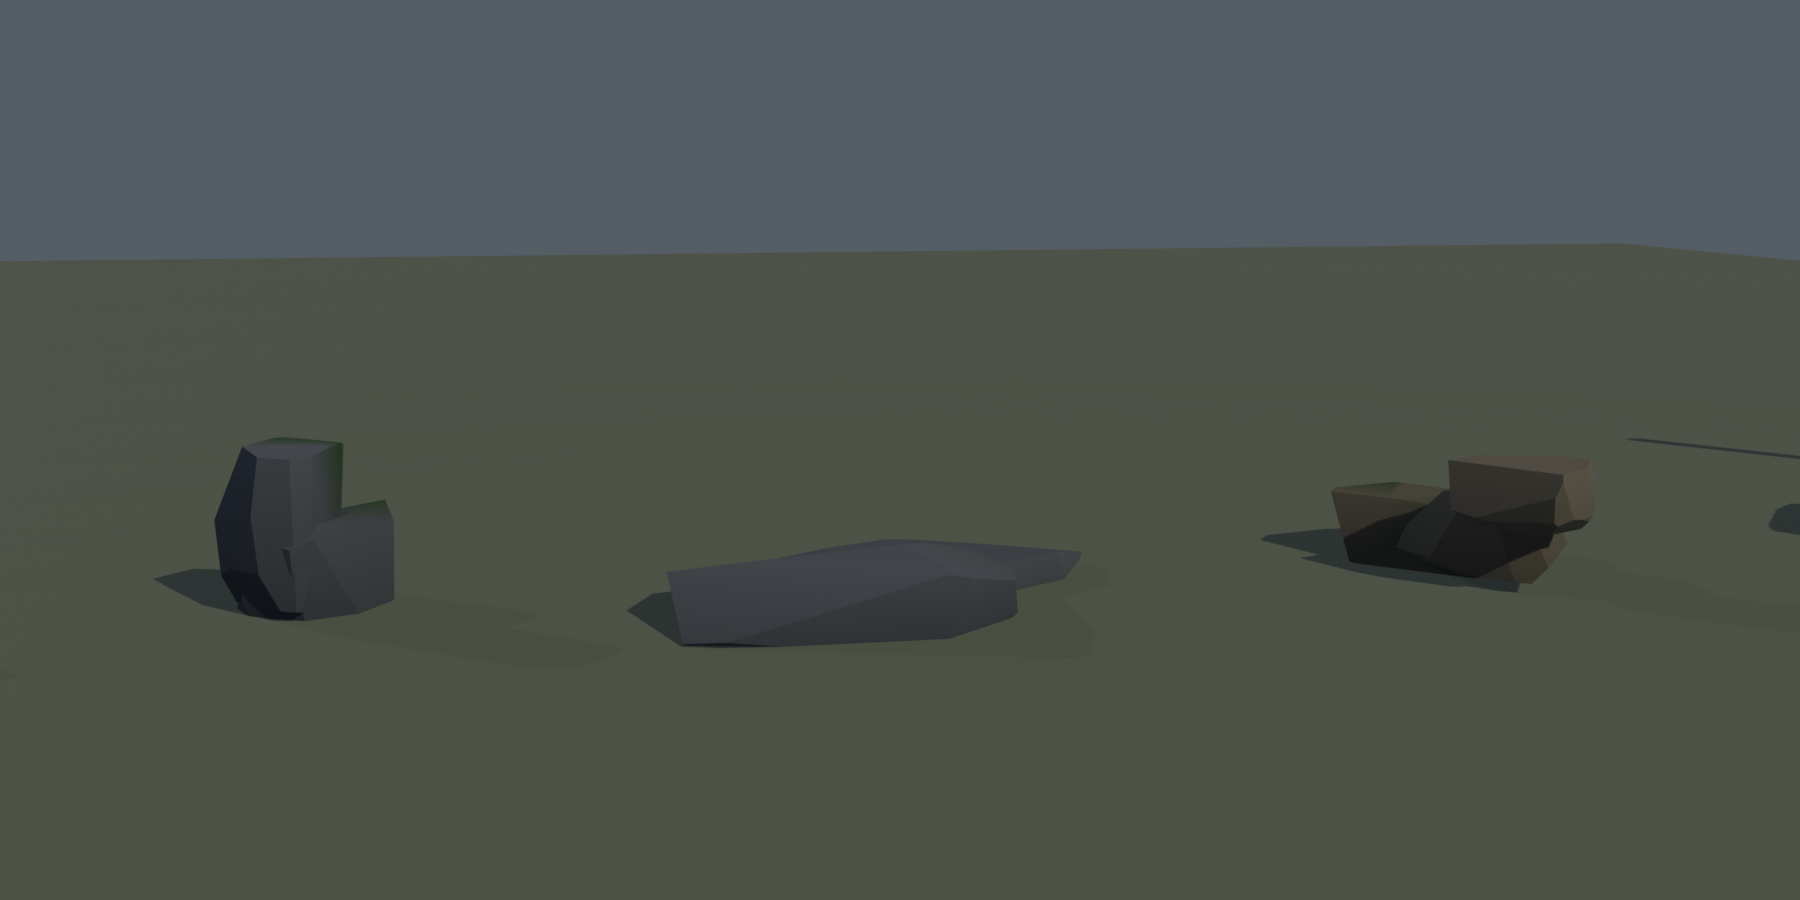
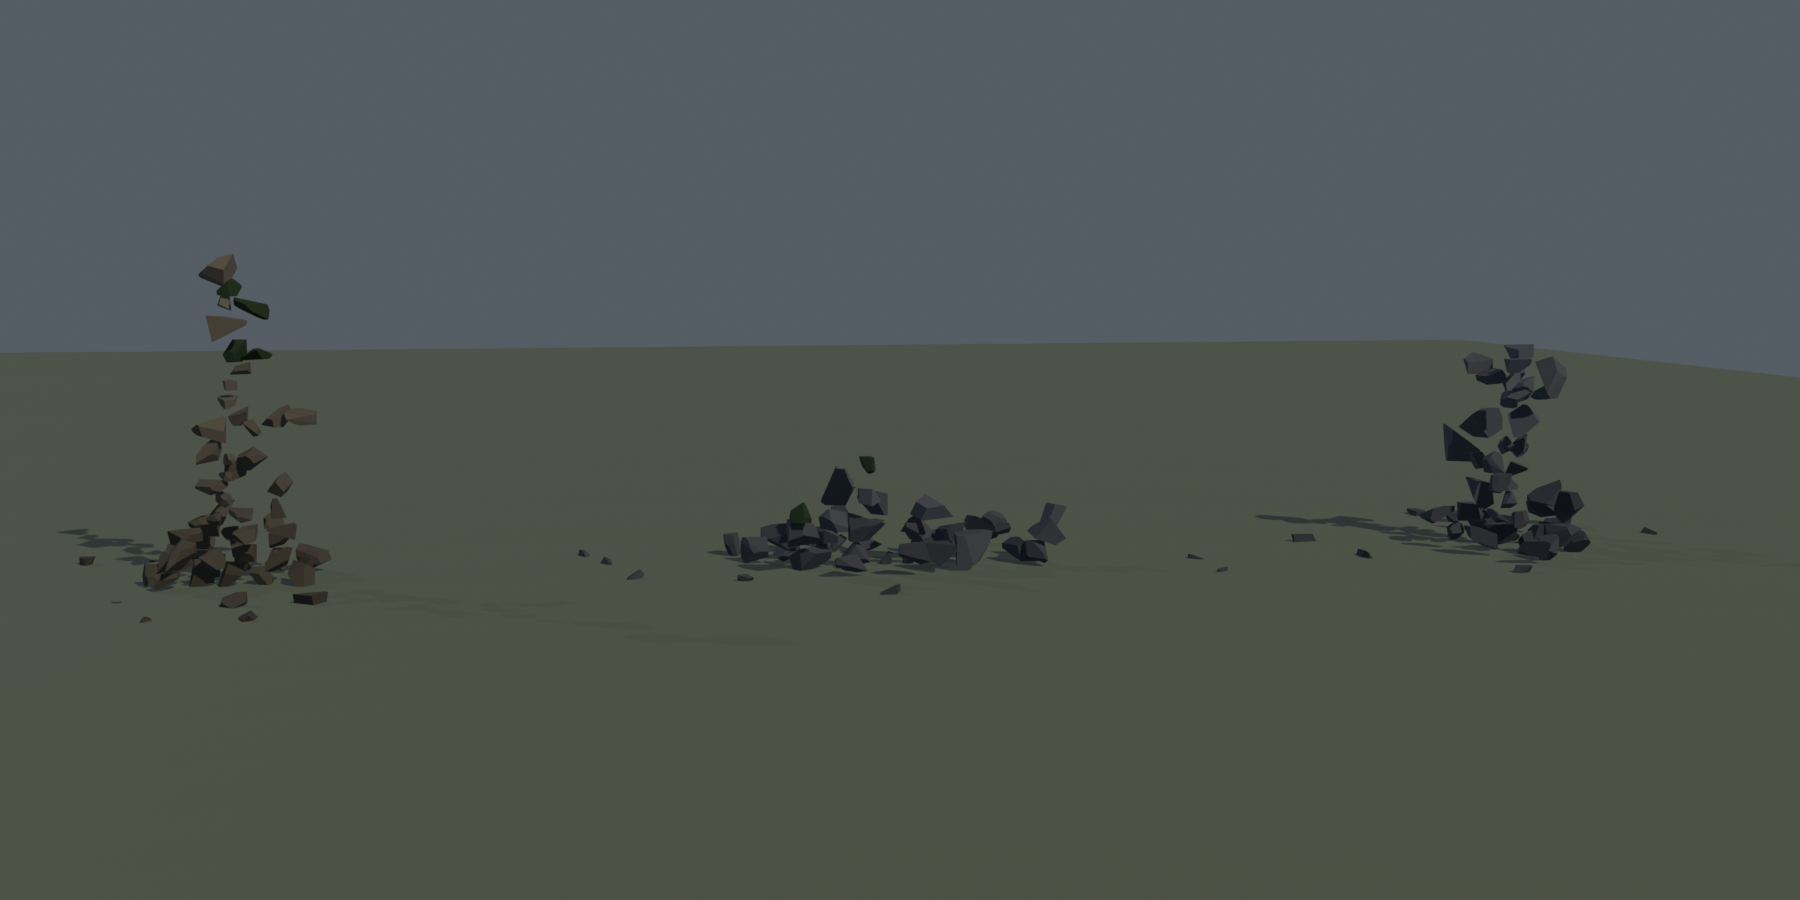
feat(biome_facet): stone aggregates - a formation is many small stones, not one mass
Counted on the reference sheet Joan supplied (rock_poe_mossy_stacked_set.png):
every formation there is 15-40 individual stones packed into a silhouette, never
one faceted mass. That single observation answers three problems at once, and
answers them better than either branch of the texture-vs-polygon fork I had put
to him:

  surface  the detail frequency lives in the boundaries BETWEEN stones, which is
           why adding erosion to a 4-block mass failed twice - wrong scale
  moss     a stone is mossy or it is not, so whole-stone painting gives the hard
           boundary vertex colour cannot produce inside one large face
  physics  packed small stones rest on each other; nothing balances

add_stone_aggregate() fills a dome/peak/ridge/split envelope, then SETTLES each
stone onto the ground or onto stones already placed, using the same quantified
adjacency as the rest of the recipe. Cost is unchanged in kind: 678-1688 tris.

Two bugs found and fixed along the way, both mine:
  - sampling z from the envelope left stones hanging in mid air
  - rescaling only Z to honour the height spec then pulled settled stones off
    their supporters, bringing the floaters straight back; the rescale is now
    uniform, which preserves contact by construction

KNOWN AND UNFIXED, do not read the renders as done: the settle models each stone
as a sphere of its nominal radius, but stones are built with a random flatten of
[…]

Changed region(s): [[0.0, 0.2489, 1.0, 0.7156], [0.3422, 0.4978, 0.5911, 0.7467], [0.9644, 0.56, 1.0, 0.5911]]

diff --git a/recetas/biome_facet.py b/recetas/biome_facet.py
@@ -42,7 +42,33 @@ ADJACENCY = 0.60
 MIN_CUT_FRAC = 0.55
 
 
-def _convex_chunk(rng, radius, cuts, bedding, bedding_jitter, elongate, flatten):
+def _erode(tmp, radius, amount, scale, subdiv, seed):
+    """Pit and pock the cut solid without dissolving its architecture.
+
+    This is the half of the recipe that was written in the header and then not
+    built: "cut for the architecture, then let noise ride on top at low
+    amplitude". Joan's in-game Path of Exile reference is eroded limestone --
+    irregular, pocked, full of small cavities -- not the crisp concept-art
+    facets. The plane cuts give the angular masses; this gives them a surface.
+
+    The noise is biased NEGATIVE so it carves pockets inward rather than
+    inflating bumps outward: erosion removes material. Deterministic from `seed`,
+    consumes no rng draws, so turning it on cannot reshuffle block placement.
+    """
+    if subdiv > 0:
+        bmesh.ops.subdivide_edges(tmp, edges=tmp.edges[:], cuts=subdiv,
+                                  use_grid_fill=True)
+    tmp.normal_update()
+    for v in tmp.verts:
+        p = v.co * scale
+        n = (math.sin(p.x * 1.7 + p.y * 2.3 + seed)
+             * math.sin(p.y * 1.9 + p.z * 2.7 + seed * 0.7)
+             * math.sin(p.z * 2.1 + p.x * 1.3 + seed * 1.3))
+        v.co += v.normal * ((n - 0.35) * amount * radius)
+
+
+def _convex_chunk(rng, radius, cuts, bedding, bedding_jitter, elongate, flatten,
+                  erode=0.0, erode_scale=9.0, erode_subdiv=0, erode_seed=0.0):
     """One convex polyhedron carved out of a cube by successive plane cuts.
 
     Returns (coords, faces) as plain data so the caller can place and paint it
@@ -101,6 +127,12 @@ def _convex_chunk(rng, radius, cuts, bedding, bedding_jitter, elongate, flatten)
         k = radius / reach
         for v in tmp.verts:
             v.co *= k
+
+    # Erosion runs AFTER normalisation (so its amplitude is a true fraction of
+    # the block radius) and BEFORE the shape scaling (so a flattened slab gets
+    # its pitting flattened with it, like real bedded stone).
+    if erode > 0.0:
+        _erode(tmp, radius, erode, erode_scale, erode_subdiv, erode_seed)
 
     for v in tmp.verts:
         v.co.x *= elongate
@@ -165,11 +197,20 @@ def add_faceted_rock(bm, vcol, center, spec, rng):
             # measured 2.29 m wide by 1.03 m tall when it was meant to be a cairn.
             stack = spec.get("stack", 0.0)
             horiz = 1.0 - 0.75 * stack
-            pos = anchor_c + Vector((
-                math.cos(ang) * d * horiz,
-                math.sin(ang) * d * horiz,
-                d * stack * rng.uniform(0.60, 1.0) + rng.uniform(-0.10, 0.30) * r,
-            ))
+            off = Vector((math.cos(ang), math.sin(ang), 0.0)) * d * horiz
+            rise = d * stack * rng.uniform(0.60, 1.0) + rng.uniform(-0.10, 0.30) * r
+            if rise > 0.0:
+                # SUPPORT POLYGON. A block resting on another has to keep its
+                # centre of mass over the one below, or the pile is a thing that
+                # cannot stand. Joan, looking at the first render beside a Path of
+                # Exile screenshot: "hay uno de los modelados que dejaste que esta
+                # apilado y eso con fisicas se caeria, no estaria bien".
+                # Capped at HALF the supporting block's radius: enough lean to
+                # look quarried, never enough to topple.
+                limit = anchor_r * 0.5
+                if off.length > limit:
+                    off *= limit / off.length
+            pos = anchor_c + Vector((off.x, off.y, rise))
         placed.append((pos, r))
 
         coords, faces = _convex_chunk(
@@ -179,6 +220,10 @@ def add_faceted_rock(bm, vcol, center, spec, rng):
             bedding_jitter=spec.get("bedding_jitter", 0.10),
             elongate=spec.get("elongate", 1.0),
             flatten=spec.get("flatten", 1.0),
+            erode=spec.get("erode", 0.0),
+            erode_scale=spec.get("erode_scale", 9.0),
+            erode_subdiv=spec.get("erode_subdiv", 1),
+            erode_seed=float(i) * 3.7,
         )
 
         verts = [bm.verts.new(pos + c) for c in coords]
@@ -203,11 +248,27 @@ def add_faceted_rock(bm, vcol, center, spec, rng):
     z_hi = max(v.co.z for v in all_verts)
     z_span = max(z_hi - z_lo, 1e-6)
 
+    pit_depth = spec.get("pit_depth", 0.0)
+    pit_scale = spec.get("pit_scale", 14.0)
+
     for v in all_verts:
         # Crevice/base darkening. The references have deep darks low in the mass
         # and clear light on top; a flat tint is what made ours read as plaster.
         t = (v.co.z - z_lo) / z_span
         k = 1.0 - crevice_dark * (1.0 - t)
+        if pit_depth > 0.0:
+            # PITTING LIVES IN VALUE, NOT IN SILHOUETTE. The first attempt carved
+            # the pocks as geometry, displacing along vertex normals after a
+            # subdivision fan; at any amplitude big enough to see, it tore the
+            # block into thin blades instead of pitting it. Canon _art_canon.md
+            # §17 already says it: silhouette = geometry, surface = texture. At
+            # gameplay distance the eroded limestone in the reference reads as
+            # dark speckle, and dark speckle is what this is.
+            p = v.co * pit_scale
+            n = (math.sin(p.x * 1.7 + p.y * 2.3)
+                 * math.sin(p.y * 1.9 + p.z * 2.7)
+                 * math.sin(p.z * 2.1 + p.x * 1.3))
+            k *= 1.0 - pit_depth * max(0.0, n)
         vcol[v] = tuple(c * k for c in color_rock)
 
     if color_moss is not None:
@@ -230,6 +291,155 @@ def add_faceted_rock(bm, vcol, center, spec, rng):
             if rng.random() > moss_chance:
                 continue
             vcol[v] = color_moss
+
+    return made_faces
+
+
+def _envelope_radius(t, profile):
+    """Half-width of the formation at height fraction t (0 base, 1 crown)."""
+    if profile == "peak":
+        return max(1.0 - t, 0.04) ** 0.85
+    if profile == "ridge":
+        return max(1.0 - t * 0.55, 0.04)
+    if profile == "split":
+        # Two shoulders with a notch: the silhouette dips in the middle band.
+        return max((1.0 - t) * (1.0 + 0.35 * math.cos(t * math.pi * 2.0)), 0.04)
+    return max(1.0 - t * t, 0.04) ** 0.5      # dome
+
+
+def add_stone_aggregate(bm, vcol, center, spec, rng):
+    """A rock FORMATION as many small stones packed into a silhouette.
+
+    This is what the reference sheets actually are. Counted on
+    `_references/rock_poe/rock_poe_mossy_stacked_set.png`: every formation is an
+    aggregate of roughly 15-40 individual stones, not one faceted mass. That one
+    fact answers three separate problems at once:
+
+      * SURFACE — the "texture" of the formation IS the boundaries between
+        stones. A single mass with big facets reads bare no matter how it is
+        shaded, because the detail frequency lives in the packing, not in the
+        material. This is why adding erosion noise to a 4-block mass failed
+        twice: it was solving at the wrong scale.
+      * MOSS EDGE — a stone is mossy or it is not. Painting WHOLE stones gives
+        the hard boundary the references show, for free. Trying to get that edge
+        inside one big face is what vertex colour cannot do.
+      * PHYSICS — packed small stones rest on each other. Nothing balances.
+
+    Cost is unchanged: ~30 stones at ~20 tris each is the same budget a handful
+    of heavily-cut blocks already spent.
+
+    spec keys:
+      radius / height   formation half-width and height in metres
+      profile           dome | peak | ridge | split
+      stones            how many stones fill the envelope
+      elongate          X stretch of the whole formation
+      outliers          loose stones dropped around the foot
+      stone_frac        stone radius as a fraction of formation radius
+      color_rock / color_moss / moss_top_frac / moss_chance / tint_drift
+      crevice_dark      darkening toward the base of the formation
+    """
+    R = spec["radius"]
+    H = spec.get("height", R * 1.1)
+    profile = spec.get("profile", "dome")
+    n = spec.get("stones", 26)
+    elongate = spec.get("elongate", 1.0)
+    outliers = spec.get("outliers", 5)
+    stone_frac = spec.get("stone_frac", 0.30)
+    color_rock = spec.get("color_rock", (0.13, 0.12, 0.09))
+    color_moss = spec.get("color_moss")
+    moss_top_frac = spec.get("moss_top_frac", 0.55)
+    moss_chance = spec.get("moss_chance", 0.7)
+    tint_drift = spec.get("tint_drift", 0.16)
+    crevice_dark = spec.get("crevice_dark", 0.55)
+    cuts = spec.get("cuts", 7)
+
+    origin = Vector(center)
+    made_faces = []
+
+    def place_stone(pos, stone_r, height_t, allow_moss):
+        coords, faces = _convex_chunk(
+            rng, stone_r, cuts=cuts, bedding=spec.get("bedding", 0),
+            bedding_jitter=spec.get("bedding_jitter", 0.10),
+            elongate=rng.uniform(0.85, 1.25), flatten=rng.uniform(0.72, 1.10),
+        )
+        verts = [bm.verts.new(pos + c) for c in coords]
+        for idx in faces:
+            try:
+                f = bm.faces.new([verts[k] for k in idx])
+            except ValueError:
+                continue
+            f.normal_update()
+            made_faces.append(f)
+        # ONE colour per stone. Per-stone tint drift is what gives the reference
+        # sheets their liveliness -- neighbouring stones differ in value, and
+        # that reads as surface without a single texel.
+        mossy = (allow_moss and color_moss is not None
+                 and height_t >= moss_top_frac and rng.random() < moss_chance)
+        base = color_moss if mossy else color_rock
+        drift = 1.0 + rng.uniform(-tint_drift, tint_drift)
+        depth = 1.0 - crevice_dark * (1.0 - height_t)
+        col = tuple(max(0.0, min(1.0, c * drift * depth)) for c in base)
+        for v in verts:
+            vcol[v] = col
+
+    # ---- settle pass: decide every stone's resting height BEFORE building ----
+    # The envelope only chooses WHERE in plan a stone goes. Its height is not
+    # sampled, it is DERIVED: each stone drops until it rests on the ground or on
+    # stones already placed. The first version sampled z from the envelope too and
+    # produced stones hanging in mid air with nothing beneath them -- a hard fail
+    # on the Naturalness Audit's floating-geometry item, and the same class of
+    # error Joan caught on the block stack ("eso con fisicas se caeria").
+    #
+    # Resting height uses the same quantified adjacency as everything else: two
+    # stones read as one mass when their centres sit at ADJACENCY x the sum of
+    # their radii. Given the horizontal gap, that fixes the vertical drop exactly,
+    # so stones interlock instead of leaving the gaps the loose version had.
+    seats = []          # (Vector centre, radius, height_fraction)
+    for _i in range(n):
+        t = rng.random() ** 1.45
+        env = _envelope_radius(t, profile)
+        ang = rng.uniform(0.0, math.tau)
+        rad = R * env * math.sqrt(rng.random())
+        stone_r = R * stone_frac * (1.0 - 0.40 * t) * rng.uniform(0.78, 1.25)
+        x = math.cos(ang) * rad * elongate
+        y = math.sin(ang) * rad
+        z = stone_r * 0.55          # resting on the ground, part-buried
+        for pc, pr, _pt in seats:
+            reach = ADJACENCY * (stone_r + pr)
+            d = math.hypot(x - pc.x, y - pc.y)
+            if d < reach:
+                z = max(z, pc.z + math.sqrt(reach * reach - d * d))
+        seats.append((Vector((x, y, z)), stone_r, t))
+
+    # Height is an OUTCOME of the packing, so the formation is rescaled to honour
+    # the spec — but UNIFORMLY, positions and stone radii together.
+    #
+    # Scaling Z alone was a bug with teeth: the settle above guarantees every
+    # stone touches its supporter, and stretching only the vertical axis pulls
+    # each stone off the one holding it up. Floating stones came back on the very
+    # pass that was meant to have fixed them. A uniform scale preserves every
+    # distance ratio, so contact survives by construction.
+    top = max((c.z + r for c, r, _t in seats), default=1.0)
+    k = min(1.6, max(0.6, H / max(top, 1e-6)))
+
+    for c, stone_r, _t in seats:
+        pos = origin + c * k
+        # Moss follows where the stone ENDED UP, not where it was drawn.
+        place_stone(pos, stone_r * k, min(1.0, (c.z * k) / max(H, 1e-6)),
+                    allow_moss=True)
+
+    for _i in range(outliers):
+        # Loose stones at the foot. In the references these are what stop the
+        # formation from having a hard contact line with the ground.
+        ang = rng.uniform(0.0, math.tau)
+        rad = R * rng.uniform(1.0, 1.55)
+        pos = origin + Vector((
+            math.cos(ang) * rad * elongate,
+            math.sin(ang) * rad,
+            R * stone_frac * rng.uniform(-0.25, 0.10),
+        ))
+        place_stone(pos, R * stone_frac * rng.uniform(0.35, 0.70), 0.0,
+                    allow_moss=False)
 
     return made_faces
 

diff --git a/recetas/_test_biome_facet.py b/recetas/_test_biome_facet.py
@@ -38,39 +38,48 @@ scene = bpy.context.scene
 STONE_WARM = (0.130, 0.115, 0.088)   # displays ~ (0.40, 0.38, 0.33)
 STONE_COOL = (0.085, 0.095, 0.118)   # displays ~ (0.33, 0.35, 0.38)
 STONE_DARK = (0.048, 0.050, 0.044)   # displays ~ (0.25, 0.26, 0.24)
-MOSS = (0.022, 0.055, 0.014)         # displays ~ (0.17, 0.26, 0.13)
+MOSS = (0.020, 0.041, 0.017)         # displays ~ (0.17, 0.26, 0.13)
 
+# Proportions rebuilt against Joan's IN-GAME Path of Exile screenshot rather than
+# the concept-art sheets. The game rock is LOW and WIDE and emerges from the
+# ground; the concept art is what led to tall compact masses sitting on top of it.
+# Rebuilt as AGGREGATES after counting the reference sheet: every formation in
+# rock_poe_mossy_stacked_set.png is 15-40 small stones packed into a silhouette,
+# never one faceted mass. Sizes are metres against a 1.80 m player.
 VARIANTS = [
-    dict(key="stacked_mossy", label="Stacked / mossy",
-         radius=0.45, blocks=5, cuts=22, bedding=2, stack=0.80, taper=0.45,
-         color_rock=STONE_WARM, color_moss=MOSS, moss_min_z=0.72, moss_chance=0.7,
-         crevice_dark=0.78),
-    dict(key="column", label="Column",
-         radius=0.34, blocks=2, cuts=20, bedding=4, flatten=2.2, stack=0.90,
-         color_rock=STONE_COOL, color_moss=MOSS, moss_min_z=0.80, moss_chance=0.30,
-         crevice_dark=0.72),
-    dict(key="wedge_slab", label="Wedge slab",
-         radius=0.70, blocks=2, cuts=18, bedding=1, flatten=0.40, elongate=1.6,
-         stack=0.10,
-         color_rock=STONE_COOL, color_moss=None, crevice_dark=0.62),
-    dict(key="strata_outcrop", label="Strata outcrop",
-         radius=0.55, blocks=3, cuts=16, bedding=6, bedding_jitter=0.05, flatten=0.90,
-         stack=0.45, taper=0.30,
-         color_rock=STONE_WARM, color_moss=MOSS, moss_min_z=0.76, moss_chance=0.55,
-         crevice_dark=0.80),
-    dict(key="boulder", label="Boulder",
-         radius=0.60, blocks=1, cuts=26,
-         color_rock=STONE_DARK, color_moss=MOSS, moss_min_z=0.78, moss_chance=0.45,
-         crevice_dark=0.70),
+    dict(key="mound_mossy", label="Mossy mound",
+         radius=0.72, height=0.95, profile="dome", stones=48, outliers=7,
+         stone_frac=0.25, cuts=7,
+         color_rock=STONE_WARM, color_moss=MOSS, moss_top_frac=0.50, moss_chance=0.75,
+         crevice_dark=0.55),
+    dict(key="peak", label="Peak",
+         radius=0.68, height=1.65, profile="peak", stones=56, outliers=8,
+         stone_frac=0.24, cuts=7,
+         color_rock=STONE_WARM, color_moss=MOSS, moss_top_frac=0.62, moss_chance=0.55,
+         crevice_dark=0.60),
+    dict(key="ridge_low", label="Low ridge",
+         radius=0.58, height=0.58, profile="ridge", stones=42, outliers=8,
+         stone_frac=0.26, elongate=2.2, cuts=7,
+         color_rock=STONE_COOL, color_moss=MOSS, moss_top_frac=0.55, moss_chance=0.45,
+         crevice_dark=0.50),
+    dict(key="split", label="Split shoulders",
+         radius=0.72, height=1.20, profile="split", stones=46, outliers=6,
+         stone_frac=0.24, cuts=7,
+         color_rock=STONE_COOL, color_moss=None, crevice_dark=0.55),
+    dict(key="cluster_small", label="Small cluster",
+         radius=0.40, height=0.42, profile="dome", stones=22, outliers=5,
+         stone_frac=0.26, cuts=6,
+         color_rock=STONE_DARK, color_moss=MOSS, moss_top_frac=0.55, moss_chance=0.5,
+         crevice_dark=0.45),
 ]
 
-SPACING = 2.2
+SPACING = 3.4
 objs = []
 for i, spec in enumerate(VARIANTS):
     rng = random.Random(SEED + i * 17)
     bm = bmesh.new()
     vcol = {}
-    faces = biome_facet.add_faceted_rock(bm, vcol, Vector((0.0, 0.0, 0.0)), spec, rng)
+    faces = biome_facet.add_stone_aggregate(bm, vcol, Vector((0.0, 0.0, 0.0)), spec, rng)
     biome_facet.flat_shade(faces)
     obj = biome_vcol.finalize_vcol_mesh(
         f"rock_{spec['key']}", bm, vcol,
@@ -78,6 +87,10 @@ for i, spec in enumerate(VARIANTS):
         mesh_name=f"rock_{spec['key']}_mesh",
         flat=True,
     )
+    # Sink the base into the ground. In the reference the stone EMERGES from the
+    # sand -- there is no visible contact line anywhere. A rock resting exactly on
+    # a plane reads as a prop dropped on the level, which is what the previous
+    # render looked like.
     obj.location = (i * SPACING, 0.0, 0.0)
     objs.append(obj)
     tris = sum(len(p.vertices) - 2 for p in obj.data.polygons)
@@ -155,7 +168,7 @@ def render_to(path, loc, target, lens=40, res=(1800, 900)):
 
 
 mid_x = (len(VARIANTS) - 1) * SPACING * 0.5
-render_to("facet_hero.png", (mid_x, -7.5, 3.0), (mid_x, 0.0, 0.5))
-render_to("facet_playereye.png", (mid_x - 1.2, -6.4, 1.65), (mid_x, 0.3, 0.45), lens=35)
-render_to("facet_closeup.png", (0.7, -2.4, 1.05), (0.0, 0.0, 0.42), lens=55, res=(1400, 1000))
+render_to("facet_hero.png", (mid_x, -11.0, 3.4), (mid_x, 0.0, 0.6))
+render_to("facet_playereye.png", (mid_x - 1.5, -9.0, 1.65), (mid_x, 0.3, 0.55), lens=35)
+render_to("facet_closeup.png", (1.0, -3.0, 1.15), (0.0, 0.0, 0.50), lens=55, res=(1400, 1000))
 print("[facet] DONE")
